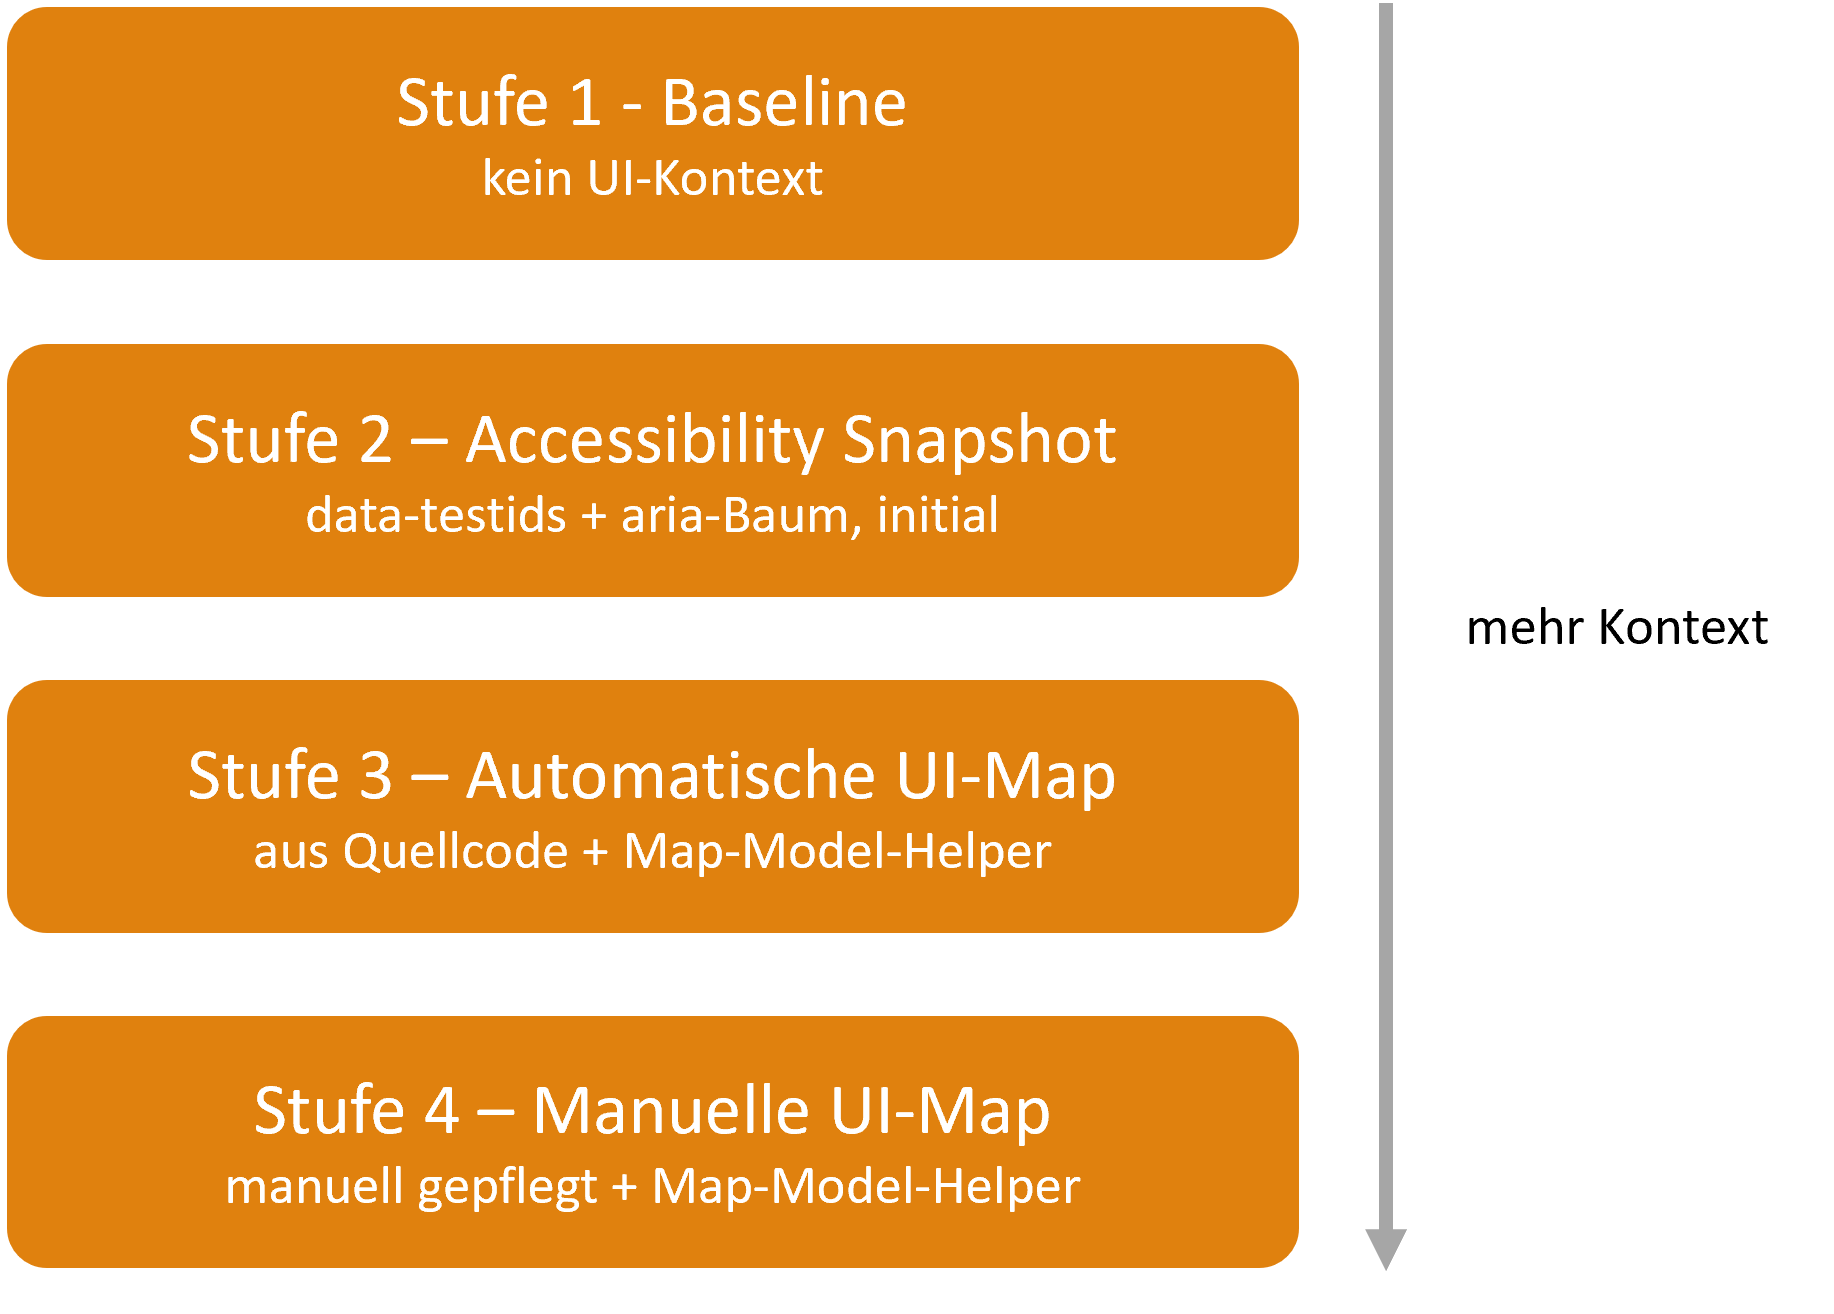
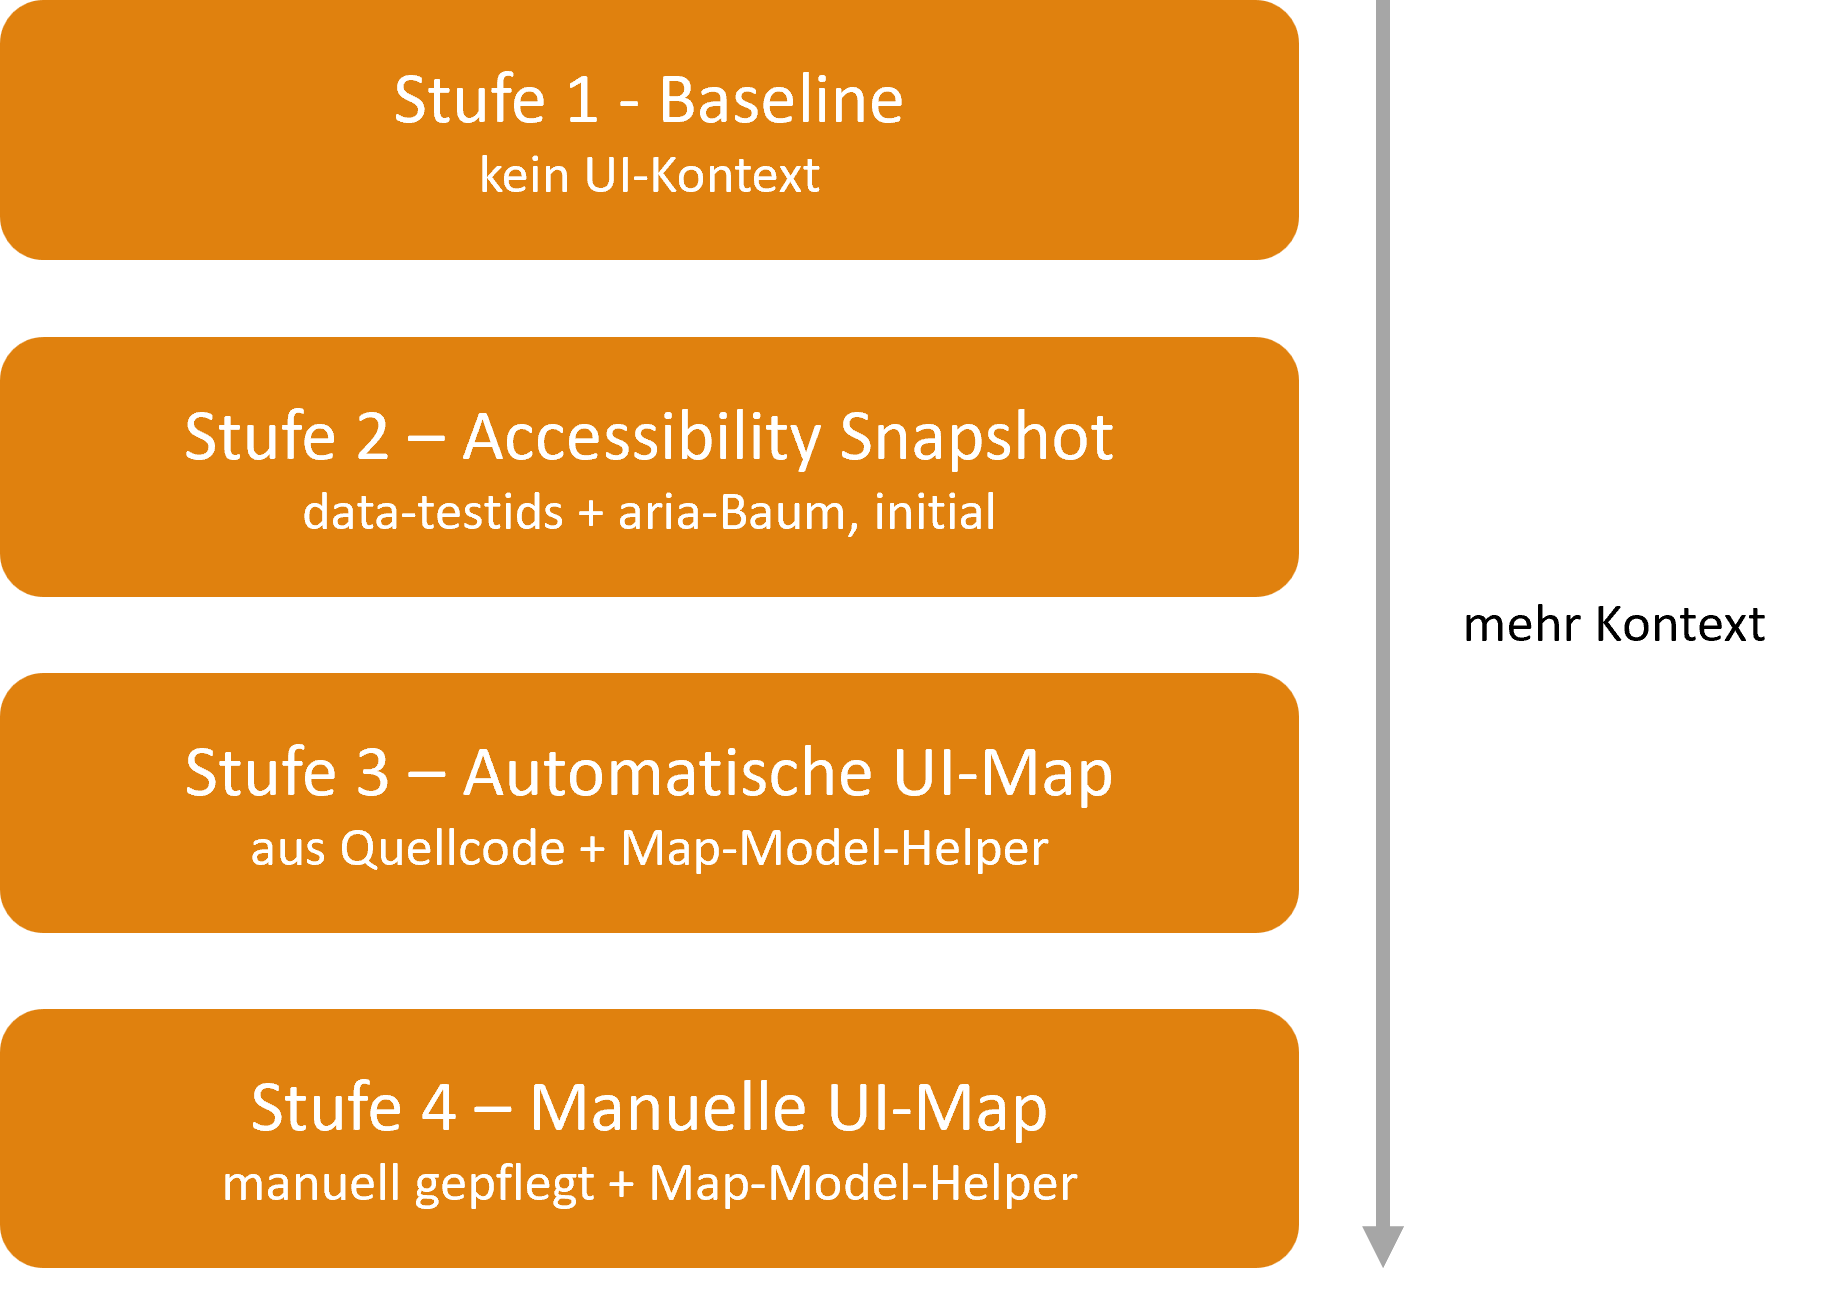
abbildungen eingebunden

diff --git a/kapitel/kapitel_3/kapitel_3.tex b/kapitel/kapitel_3/kapitel_3.tex
@@ -19,6 +19,20 @@ Die vier Stufen bilden einen Verlauf von minimalem zu maximalem \ac{UI}-Kontext.
 
 Abbildung~ zeigt den Ablauf eines Generierungsvorgangs. Use Case, OPT-Playwright-Skill und der \ac{UI}-Kontext der jeweiligen Stufen bilden zusammen den Prompt für das \ac{LLM}. Das \ac{LLM} erzeugt daraus einen Playwright-Test, der ausgeführt und anhand der Kriterien aus Kapitel~4.5 bewertet wird. Die manuellen Referenztests aus Kapitel~5.3 dienen dabei als Vergleichsmaßstab.
 
+\begin{figure}[H]
+    \centering
+    \caption[Generierungs- und Evaluationspipeline]{Generierungs- und Evaluationspipeline. Der UI-Kontext variiert als unabhängige Variable (Stufen 1–4), alle übrigen Eingaben sind konstant}
+    \label{fig:testpyramide}
+    \includegraphics[width=1\textwidth]{methodik_pipeline}
+\end{figure}
+
+\begin{figure}[H]
+    \centering
+    \caption[Ausprägungen der Variable UI-Kontext]{Die vier Ausprägungen der Variable UI-Kontext mit steigendem Informationsgehalt}
+    \label{fig:testpyramide}
+    \includegraphics[width=0.6\textwidth]{ui_kontext_stufen}
+\end{figure}
+
 \subsection{Use Cases: Definition und Format}
 
 Die Use Cases sind die fachliche Eingabe, aus der die Tests generiert werden. Sie sind über alle vier Stufen identisch und gehören damit zu den konstant gehaltenen Faktoren.
@@ -38,6 +52,15 @@ Die Eigenschaft \texttt{complexity} gruppiert die Use Cases in drei Schwierigkei
 \subsubsection{Stufe 3 - Automatisch generierte UI-Map}
 
 \subsubsection{Stufe 4 - Manuell erstellte UI-Map}
+
+\subsubsection{Bonus-Stufe 5 - Self-Improvement-Loop}
+
+\begin{figure}[H]
+    \centering
+    \caption[Self-Improvement-Loop (Stufe 5)]{Self-Improvement-Loop der Bonus-Stufe 5: Fehlermeldung und Failure-Snapshot fließen in den nächsten Generierungsprompt zurück (max. 5 Iterationen)}
+    \label{fig:testpyramide}
+    \includegraphics[width=0.9\textwidth]{stufe_5_loop}
+\end{figure}
 
 \subsection{LLM-Konfiguration (Modell, Temperatur, Prompt-Struktur)}
 

diff --git a/kapitel/kapitel_1/kapitel_1.tex b/kapitel/kapitel_1/kapitel_1.tex
@@ -68,7 +68,7 @@ Eine Open Pioneer Trails-Anwendung ist auf Paketen aufgebaut. Ein Paket bündelt
 
 \begin{figure}[H]
     \centering
-    \caption[Open Pioneer Trails Paketökosystem]{Das Open Pioneer Trails Paketökosystem (Quelle: con terra interne Darstellung)}
+    \caption[Open Pioneer Trails Paketökosystem]{Das Open Pioneer Trails Paketökosystem}
     \label{fig:opt_oekosystem}
     \includegraphics[width=0.4\textwidth]{opt_oekosystem_pakete}
 \end{figure}